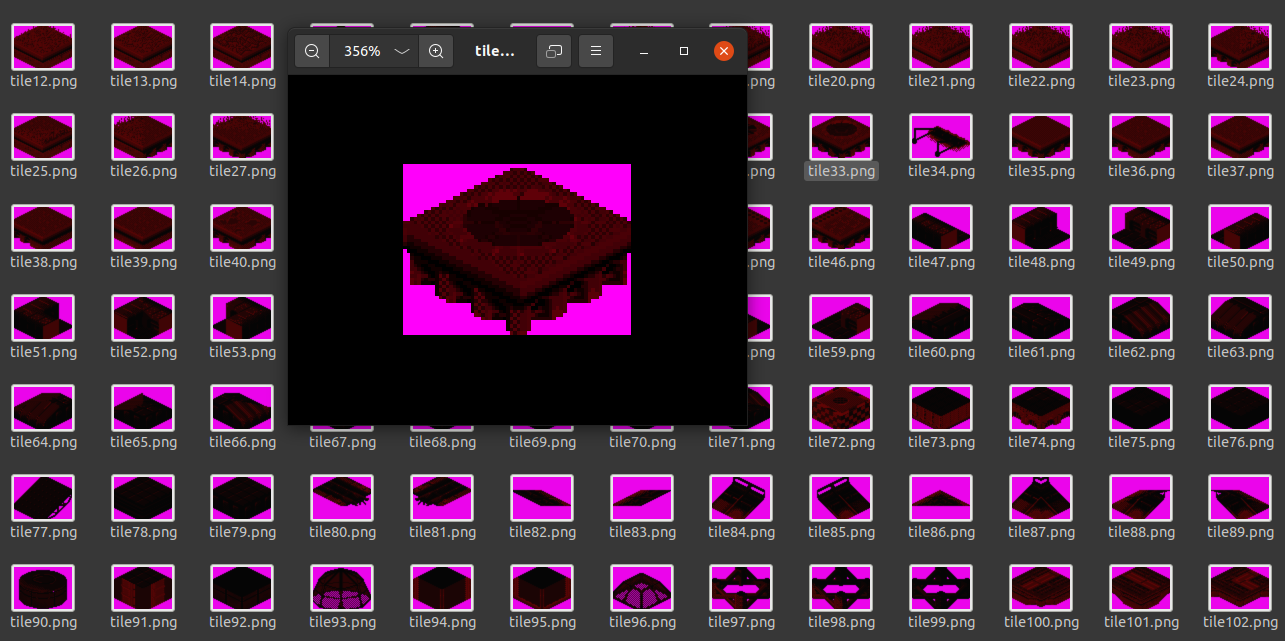
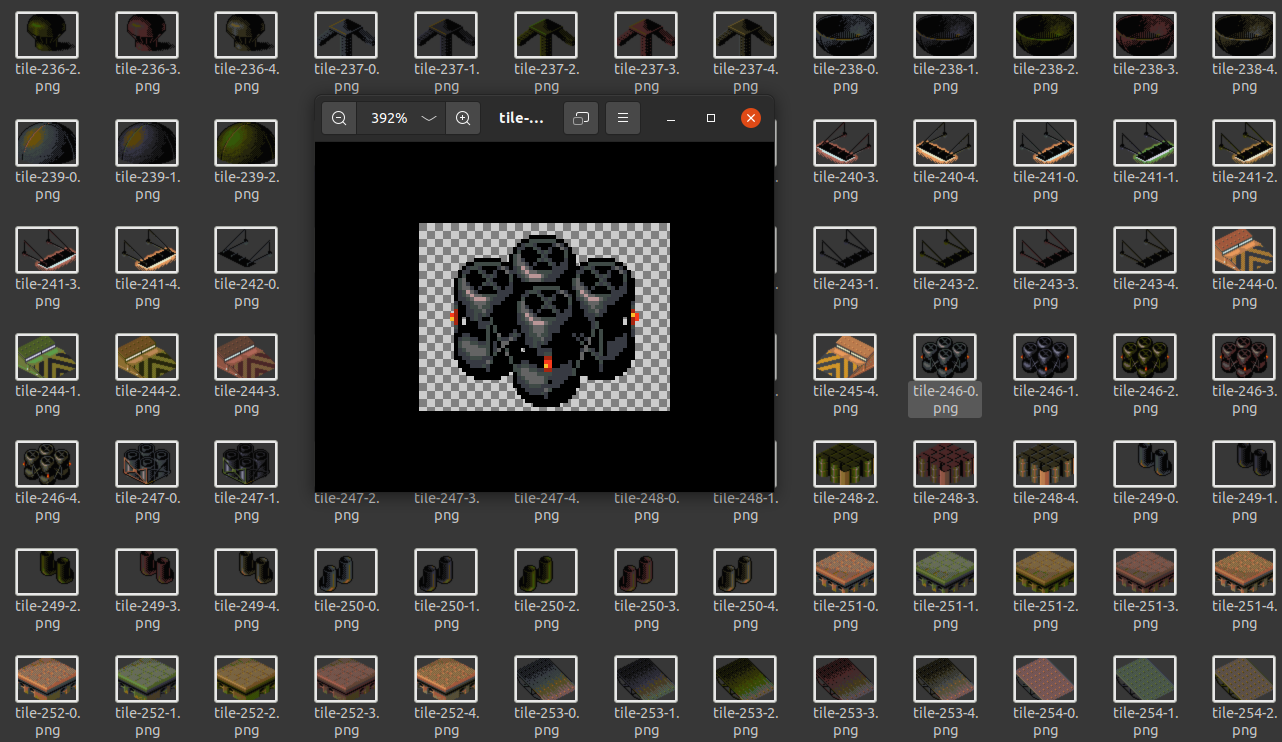
feat: read & apply palettes to tiles

diff --git a/readers/palette-reader.js b/readers/palette-reader.js
@@ -1,0 +1,66 @@
+import assert from "assert";
+import Jimp from "jimp";
+import { join } from "path";
+import { readFileSync } from "fs";
+
+import {
+  DATA_FOLDER,
+  NUM_COLORS_INGAME,
+  TILES_OUTPUT_FOLDER,
+} from "./constants.js";
+
+/*
+  Palette files contain 256 colors, each with a red, green, and blue 1-byte component.
+  Note that in missions the game uses 16 colors only.
+  Values for each component are [0, 63]
+*/
+const readPaletteFile = (filename) => {
+  const filePath = join(DATA_FOLDER, `${filename.toUpperCase()}.DAT`);
+
+  const fileContentsBuffer = readFileSync(filePath, null);
+  const fileContentsArray = new Uint8Array(
+    fileContentsBuffer.buffer,
+    fileContentsBuffer.byteOffset,
+    fileContentsBuffer.length
+  );
+
+  return fileContentsArray;
+};
+
+export const readPalette = (filename) => {
+  const paletteContents = readPaletteFile(filename);
+
+  assert(
+    paletteContents.length === 256 * 3,
+    `Expected 256*3=768 color component bytes, got ${paletteContents.length}`
+  );
+
+  const palette = new Array(NUM_COLORS_INGAME);
+
+  for (let color = 0; color < NUM_COLORS_INGAME; color++) {
+    // we scale to [0, 255]
+    const red = paletteContents[color * 3] * 4;
+    const green = paletteContents[color * 3 + 1] * 4;
+    const blue = paletteContents[color * 3 + 2] * 4;
+
+    // RGBA hex value
+    palette[color] = Jimp.rgbaToInt(red, green, blue, 255);
+  }
+
+  return palette;
+};
+
+const savePaletteSample = (palette) => {
+  const image = new Jimp(16, 1, 0x00000000, (err, image) => {
+    if (err) {
+      console.log(err);
+      exit(1);
+    }
+
+    palette.forEach((color, index) => {
+      image.setPixelColor(color, index, 0);
+    });
+
+    image.write(join(TILES_OUTPUT_FOLDER, `palette.png`));
+  });
+};

diff --git a/readers/tile-reader.js b/readers/tile-reader.js
@@ -3,12 +3,14 @@ import { join } from "path";
 import { readFileSync } from "fs";
 
 import {
+  NUM_TILES,
   NUM_SUBTILES,
   OFFSET_ARRAY_LAST_OFFSET,
   DATA_FOLDER,
 } from "./constants.js";
 
 import { readTile, saveTile } from "./tile.js";
+import { readPalette } from "./palette-reader.js";
 
 const readTilesFile = () => {
   const filePath = join(DATA_FOLDER, "HBLK01.DAT");
@@ -60,10 +62,14 @@ const readOffsetArray = (fileContentsArray) => {
 const contentsArray = readTilesFile();
 const offsetArray = readOffsetArray(contentsArray);
 
-// for (let i = 0; i < NUM_TILES; i++) {
-//   const subtiles = readTile(i, offsetArray, contentsArray);
-//   saveTile(i, subtiles);
-// }
+const palettes = ["HPAL01", "HPAL02", "HPAL03", "HPAL04", "HPAL05"].map(
+  (filename) => readPalette(filename)
+);
 
-const tile = readTile(21, offsetArray, contentsArray);
-saveTile(21, tile);
+for (let tileNum = 0; tileNum < NUM_TILES; tileNum++) {
+  const tile = readTile(tileNum, offsetArray, contentsArray);
+
+  palettes.forEach((palette, index) => {
+    saveTile(`-${tileNum}-${index}`, tile, palette);
+  });
+}

diff --git a/readers/tile.js b/readers/tile.js
@@ -36,7 +36,7 @@ export const readTile = (tileNumber, offsetArray, contentsArray) => {
 /*
   Simulate transparent color with pink, other colors as red tones
 */
-export const saveTile = (tileNumber, tilePixels) => {
+export const saveTile = (filenameSuffix, tilePixels, palette) => {
   const width = SUBTILE_WIDTH * 2;
   const heigth = SUBTILE_HEIGHT * 3;
 
@@ -50,8 +50,7 @@ export const saveTile = (tileNumber, tilePixels) => {
     let y = 0;
     tilePixels.forEach((pixel) => {
       if (!pixel.transparent) {
-        const colorHack = ((16 * pixel.color) << 23) + 255;
-        image.setPixelColor(colorHack, x, y);
+        image.setPixelColor(palette[pixel.color], x, y);
       }
       x++;
       if (x === width) {
@@ -60,7 +59,7 @@ export const saveTile = (tileNumber, tilePixels) => {
       }
     });
 
-    image.write(join(TILES_OUTPUT_FOLDER, `tile${tileNumber}.png`));
+    image.write(join(TILES_OUTPUT_FOLDER, `tile${filenameSuffix}.png`));
   });
 };
 

diff --git a/readers/subtile.js b/readers/subtile.js
@@ -3,7 +3,7 @@ import Jimp from "jimp";
 import { join } from "path";
 import { exit } from "process";
 
-import { Color } from "./color.js";
+import { Pixel } from "./pixel.js";
 import {
   NUM_SUBTILES,
   OFFSET_ARRAY_LAST_OFFSET,
@@ -106,7 +106,7 @@ export const saveSubtile = (subtilePixels, subtileNumber) => {
 const generateEmptySubtilePixels = () => {
   const subtilePixels = new Array(SUBTILE_WIDTH * SUBTILE_HEIGHT);
   for (let i = 0; i < subtilePixels.length; i++) {
-    subtilePixels[i] = new Color(0, 0, 0, 0, 1);
+    subtilePixels[i] = new Pixel(0, 0, 0, 0, 1);
   }
   return subtilePixels;
 };
@@ -152,7 +152,7 @@ const readSubtilePixels = (subtileContents) => {
           ? 1
           : 0;
 
-      const color = new Color(
+      const color = new Pixel(
         colorBit0,
         colorBit1,
         colorBit2,

diff --git a/readers/pixel.js b/readers/pixel.js
@@ -1,10 +1,9 @@
-export class Color {
+export class Pixel {
   #color;
   #transparency;
 
   constructor(b0, b1, b2, b3, transparency) {
-    // Color data bits are also reversed
-    this.#color = (b0 << 3) | (b1 << 2) | (b2 << 1) | b3;
+    this.#color = (b3 << 3) | (b2 << 2) | (b1 << 1) | b0;
     this.#transparency = transparency;
   }
 

diff --git a/readers/constants.js b/readers/constants.js
@@ -12,5 +12,8 @@ export const SUBTILE_HEIGHT = 16;
 export const BYTES_PER_ROW = 20;
 export const BYTES_PER_SUBTILE = BYTES_PER_ROW * SUBTILE_HEIGHT;
 
+// For now, optimized palettes for in-game use case
+export const NUM_COLORS_INGAME = 16;
+
 export const DATA_FOLDER = "data";
 export const TILES_OUTPUT_FOLDER = "tiles";
